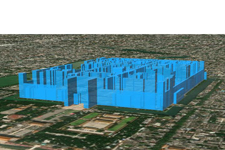
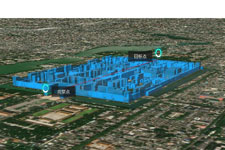
修改通视分析spatialAnalysis_inSightAnalysis

diff --git a/src/components/spatialAnalysis/spatialAnalysis_inSightAnalysis.vue b/src/components/spatialAnalysis/spatialAnalysis_inSightAnalysis.vue
@@ -1,14 +1,21 @@
 <template>
   <div>
     <div id="map" class="container"></div>
-    <div class="control"></div>
+    <div class="control">
+      <el-button type="primary" plain @click="startDraw">绘制通视线</el-button>
+      <el-button type="primary" plain @click="clear">清除全部</el-button>
+    </div>
   </div>
 </template>
 
 <script>
 import "maptalks/dist/maptalks.css";
 import * as maptalks from "maptalks";
-import { GroupGLLayer, GeoJSONVectorTileLayer } from "@maptalks/gl-layers";
+import {
+  GroupGLLayer,
+  GeoJSONVectorTileLayer,
+  InSightAnalysis,
+} from "@maptalks/gl-layers";
 export default {
   components: {},
 
@@ -17,12 +24,38 @@ export default {
       map: null,
       groupLayer: null,
       GeoJSONLayer: null,
+      drawTool: null,
+      insightAnalysis: null, //通视分析
+      eyePos: [116.39088, 39.91127, 20], //眼睛位置
+      lookPoint: [116.39049, 39.922, 30], //目标点
+      coordinates: [],
+      first: true, //是否是第一个绘制点
     };
   },
 
   computed: {},
 
   mounted() {
+    /**
+     * 通视分析-重要方法，更新
+     * this.insightAnalysis.update("lines", [
+          {
+            from: this.eyePos,
+            to: this.lookPoint,
+          },
+        ]);
+        也可更新眼睛位置和目标点的位置
+        Change(function (value) {
+            lookPoint[2] = value;//更新目标点高度
+            insightAnalysis.update("lines", [
+            {
+                from: eyePos,
+                to: lookPoint
+            }
+            ]);
+        ]);
+     * 
+     */
     this.map = new maptalks.Map("map", {
       center: [116.39109, 39.9164],
       zoom: 16,
@@ -47,7 +80,7 @@ export default {
             dataConfig: {
               type: "3d-extrusion",
               altitudeProperty: "height",
-              altitudeScale: 5,
+              altitudeScale: 2,
               defaultAltitude: 10,
             },
             sceneConfig: {},
@@ -67,15 +100,205 @@ export default {
     });
 
     this.groupLayer = new GroupGLLayer("group", [this.GeoJSONLayer], {
-      sceneConfig: {},
+      sceneConfig: {
+        postProcess: {
+          enable: true, //重要
+        },
+      },
     });
     this.groupLayer.addTo(this.map);
     this.GeoJSONLayer.on("dataload", (e) => {
       this.map.fitExtent(e.extent);
     });
+
+    /**
+     * 初始化通视分析
+     * （必须开启后期处理）
+     */
+    this.insightAnalysis = new InSightAnalysis({
+      lines: [
+        //通视线数组
+        {
+          from: this.eyePos,
+          to: this.lookPoint,
+        },
+      ],
+      visibleColor: [0, 1, 0, 1], //可视部分的颜色
+      invisibleColor: [1, 0, 0, 1], //不可视部分的颜色
+    });
+    this.insightAnalysis.addTo(this.groupLayer);
+
+    this._addLabel();
+    this.setDrawTool();
   },
 
-  methods: {},
+  methods: {
+    setDrawTool() {
+      //添加绘图工具
+      this.drawTool = new maptalks.DrawTool({
+        mode: "LineString",
+        enableAltitude: true,
+        symbol: {
+          lineColor: "#f00",
+        },
+      })
+        .addTo(this.map)
+        .disable();
+      //绘制开始事件
+      this.drawTool.on("drawstart", (e) => {
+        const coordinate = this._getPickedCoordinate(e.coordinate);
+        if (!coordinate) return;
+        this.eyePos = [...coordinate]; //眼睛位置
+        this._updateLabel();
+        this.first = true;
+      });
+
+      //绘制鼠标移动事件---这个事件===实施更新
+      this.drawTool.on("mousemove", (e) => {
+        const coordinate = this._getPickedCoordinate(e.coordinate);
+        if (!coordinate) return;
+        if (this.first) {
+          this.coordinates.push(coordinate);
+        } else {
+          this.coordinates[this.coordinates.length - 1] = coordinate;
+        }
+        e.geometry.setCoordinates(this.coordinates);
+        this.lookPoint = [...coordinate]; //目标点
+        //更新通视分析
+        this.insightAnalysis.update("lines", [
+          {
+            from: this.eyePos,
+            to: this.lookPoint,
+          },
+        ]);
+        this._updateLabel();
+        this.first = false;
+      });
+      //顶点事件
+      this.drawTool.on("drawvertex", (e) => {
+        const coordinate = this._getPickedCoordinate(e.coordinate);
+        if (!coordinate) return;
+        if (this.first) {
+          this.coordinates.push(coordinate);
+          this.first = false;
+        } else {
+          this.coordinates[this.coordinates.length - 1] = coordinate;
+          this.first = true;
+        }
+        e.geometry.setCoordinates(this.coordinates);
+        this.insightAnalysis.enable(); //结束
+        this.lookPoint = [...coordinate];
+        this._updateLabel();
+        //更新通视分析
+        this.insightAnalysis.update("lines", [
+          {
+            from: this.eyePos,
+            to: this.lookPoint,
+          },
+        ]);
+        //清空
+        this.drawTool.disable();
+        this.coordinates = [];
+      });
+    },
+
+    _getPickedCoordinate(coordinate) {
+      const identifyData = this.groupLayer.identify(coordinate)[0];
+      if (identifyData && identifyData.coordinate) {
+        return identifyData.coordinate;
+      } else {
+        return [coordinate.x, coordinate.y];
+      }
+    },
+
+    _addLabel() {
+      let vLayer = this.map.getLayer("vLayer");
+      if (!vLayer) {
+        vLayer = new maptalks.VectorLayer("vLayer", {
+          enableAltitude: true,
+        }).addTo(this.map);
+      }
+      //圆样式
+      const circleSymbol = {
+        markerFile: require("@/assets/effect/ring.png"),
+        markerOpacity: 1,
+        markerWidth: 30,
+        markerHeight: 42,
+      };
+      //TextBox样式（标注）
+      //new TextBox(content, coordinates, width, height, optionsopt)
+      //观察点、目标点2个一起加
+      //this.eyePos[2]高度
+      //this.lookPoint[2]高度
+      const labelSymbol1 = this._getLabelSymbol(60, this.eyePos[2]);
+      new maptalks.Marker(this.eyePos, {
+        symbol: circleSymbol,
+        properties: {
+          altitude: this.eyePos[2],
+        },
+      }).addTo(vLayer);
+      new maptalks.TextBox("观察点", this.eyePos, 80, 35, labelSymbol1).addTo(vLayer);
+
+      const labelSymbol2 = this._getLabelSymbol(-60, this.lookPoint[2]);
+      new maptalks.Marker(this.lookPoint, {
+        symbol: circleSymbol,
+        properties: {
+          altitude: this.lookPoint[2],
+        },
+      }).addTo(vLayer);
+      new maptalks.TextBox("目标点", this.lookPoint, 80, 35, labelSymbol2).addTo(vLayer);
+    },
+
+    _getLabelSymbol(Dx, height) {
+      //Dx-x轴上偏移
+      const labelSymbol = {
+        draggable: false,
+        textStyle: {
+          wrap: true,
+          padding: [12, 8],
+          verticalAlignment: "center",
+          horizontalAlignment: "center",
+          symbol: {
+            textFaceName: "monospace",
+            textFill: "#fff",
+            textSize: 14,
+          },
+        },
+        boxSymbol: {
+          markerType: "square",
+          markerFill: "rgb(20, 20, 20)",
+          markerFillOpacity: 0.7,
+          markerLineWidth: 0,
+          markerDy: -10,
+          markerDx: Dx,
+        },
+        properties: {
+          altitude: height,
+        },
+      };
+      return labelSymbol;
+    },
+
+    _updateLabel() {
+      //添加删除图层
+      const vLayer = this.map.getLayer("vLayer");
+      if (vLayer) {
+        vLayer.clear();
+      }
+      this._addLabel();
+    },
+    /**
+     * UI
+     */
+    startDraw() {
+      this.drawTool.enable();
+    },
+    clear() {
+      const vLayer = this.map.getLayer("vLayer");
+      vLayer.clear();
+      this.insightAnalysis.disable();
+    },
+  },
 };
 </script>
 <style>
